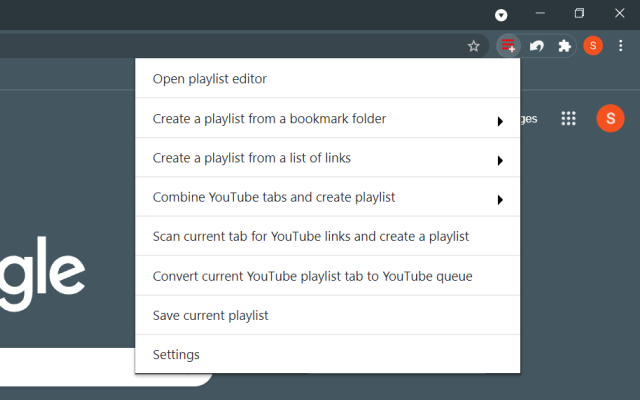
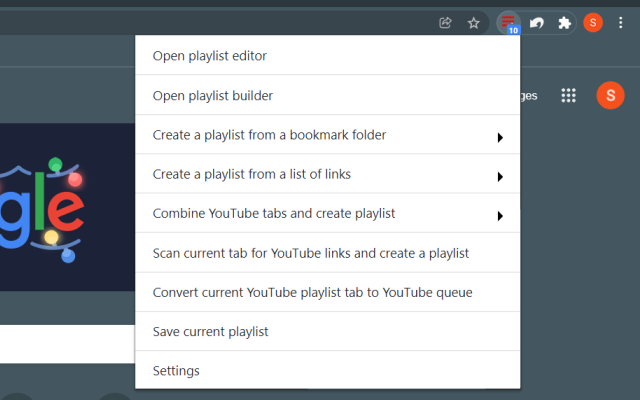
v2.6.1

diff --git a/README.md b/README.md
@@ -10,6 +10,8 @@ A YouTube playlist creator for [Firefox](https://addons.mozilla.org/en-US/firefo
 
   ![playlist-editor](https://raw.githubusercontent.com/soufianesakhi/youtube-playlist-helper/master/screenshots/playlist-editor.png)
 
+- Queue up videos from any page (with the right-click context menu) and play or save them using the playlist builder.
+
 - Save playlists using your browser's sync storage
 
   ![saved-playlists](https://raw.githubusercontent.com/soufianesakhi/youtube-playlist-helper/master/screenshots/saved-playlists.png)
